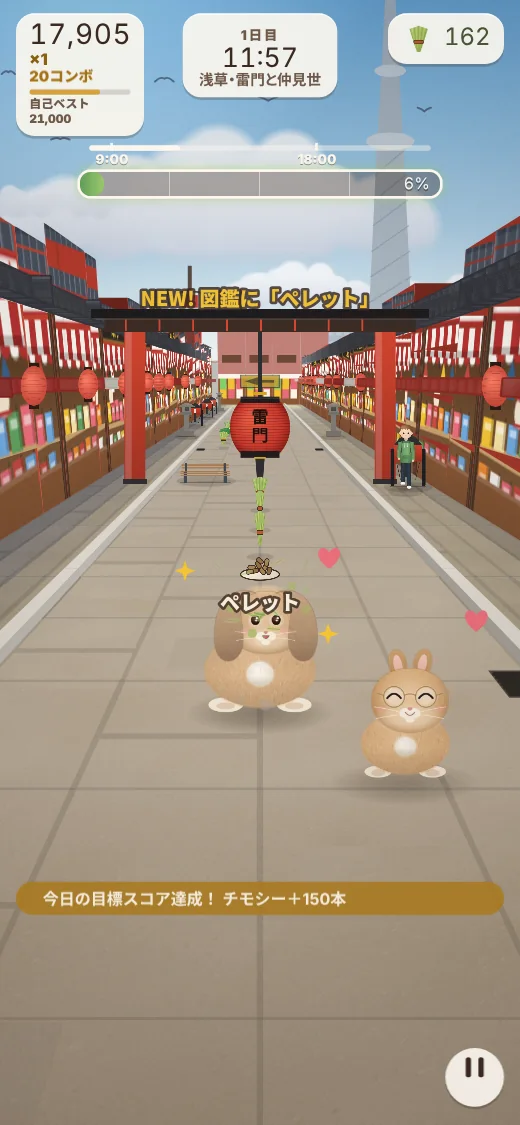
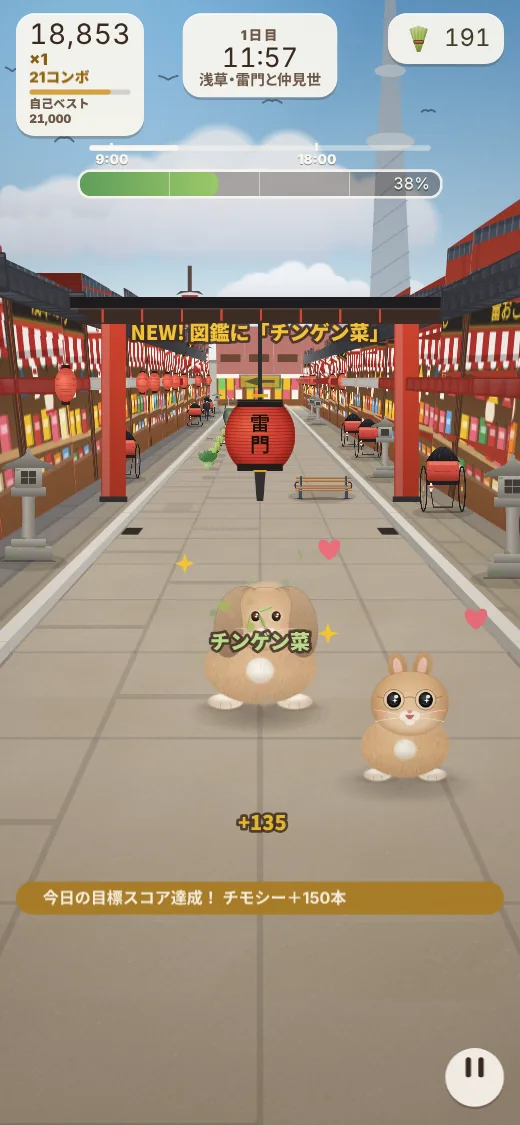
LP のレンとジルの手足をすべて新しく (#27)
* レンとジルの絵を、手足を作り込んだアニメの絵に入れ替え（キャラクター紹介・最初の画面・関係の図・3D の案内役・共有用の画像）／書き出しから変換までの道具 tools/char_from_rig.py

Claude-Session: https://claude.ai/code/session_01KYhWQVkUVFVXPun7Dy396r

* LP のレンとジルの手足をすべて新しく：動く 3D の案内役の絵を 2 倍の細かさで作り直し（512 では指やかげがつぶれた）／「ある一日」1〜7 をいまのアニメから切り出し直し（8・9 は頭のアップで手足が写らない）／ゲーム画面 6 枚を撮り直し／作る道具を tools に保存

Claude-Session: https://claude.ai/code/session_01KYhWQVkUVFVXPun7Dy396r

* 検査 57：案内役の 3D の絵の細かさ（1 人 1024 以上）と、guide3d.js の数字との一致を見る

Claude-Session: https://claude.ai/code/session_01KYhWQVkUVFVXPun7Dy396r

---------

diff --git a/guide3d.js b/guide3d.js
@@ -39,7 +39,7 @@
   window.__g3d = state;
 
   /* ───────── 絵のます目（tools/make_g3d.py と同じ数字） ───────── */
-  const AW = 2048, AH = 1024, CELL = 512, PAD = 16, INNER = CELL - PAD * 2;
+  const AW = 4096, AH = 2048, CELL = 1024, PAD = 32, INNER = CELL - PAD * 2; // 2026-11-16：512 では手足がつぶれたので 2 倍（絵の割合は前と同じ）
   const tile = (col, row) => [(col * CELL + PAD) / AW, (row * CELL + PAD) / AH, INNER / AW, INNER / AH];
   const FACE = { open: 0, blink: 1, happy: 2 };
   const FOOT = 0.058;      // 絵の下から足の裏までの割合

diff --git a/tools/make_g3d.py b/tools/make_g3d.py
@@ -1,6 +1,6 @@
 #!/usr/bin/env python3
 """案内役の 3D（guide3d.js）用の絵を作る。使い方：python3 tools/make_g3d.py
-img/char/{ren,jill}_{open,blink,happy}.webp → img/g3d/atlas.webp（2048x1024、512 のますが 4 列 × 2 段）
+/tmp/char_hi/{ren,jill}_{open,blink,happy}.png（tools/char_from_rig.py が作る大きい絵。無ければ img/char/*.webp）→ img/g3d/atlas.webp（4096x2048、1024 のますが 4 列 × 2 段）
   列：ふだん / まばたき / にっこり / 奥行き（白いほど手前）。段：レン / ジル
 - 絵に描きこまれた足もとの影は消す（3D では影を別に描くので、跳ねたとき影がついてこないように）
 - 奥行きは、体の形をふくらませて作る（輪郭で 0、まん中ほど高い）。絵を差し替えたら、これを実行し直す
@@ -12,7 +12,7 @@ from scipy.sparse import lil_matrix
 from scipy.sparse.linalg import spsolve
 import os
 ROOT = os.path.dirname(os.path.dirname(os.path.abspath(__file__)))
-CELL, PAD = 512, 16
+CELL, PAD = 1024, 32  # 2026-11-16：512 では手足の指やかげがつぶれた（オーナー「LP の動くレンとジルの足が質の低いまま」）→ 2 倍に
 INNER = CELL - PAD * 2
 
 def body_alpha(a):
@@ -42,14 +42,14 @@ def inflate(mask):
             if 0 <= yy < S and 0 <= xx < S and idx[yy, xx] >= 0: A[k, idx[yy, xx]] = -1
     h = np.zeros((S, S)); h[ys, xs] = spsolve(A.tocsr(), b)
     h = np.sqrt(h / h.max())
-    im = Image.fromarray((h * 255).astype(np.uint8)).resize((INNER, INNER), Image.BICUBIC).filter(ImageFilter.GaussianBlur(3))
+    im = Image.fromarray((h * 255).astype(np.uint8)).resize((INNER, INNER), Image.BICUBIC).filter(ImageFilter.GaussianBlur(6))
     return np.array(im).astype(np.float32) / 255.0
 
 atlas = np.zeros((CELL * 2, CELL * 4, 4), np.float32)
 for row, who in enumerate(("ren", "jill")):
     base_alpha = None
     for col, face in enumerate(("open", "blink", "happy")):
-        im = Image.open(f"{ROOT}/img/char/{who}_{face}.webp").convert("RGBA").resize((INNER, INNER), Image.LANCZOS)
+        im = Image.open(f"/tmp/char_hi/{who}_{face}.png" if os.path.exists(f"/tmp/char_hi/{who}_{face}.png") else f"{ROOT}/img/char/{who}_{face}.webp").convert("RGBA").resize((INNER, INNER), Image.LANCZOS)
         a = np.array(im).astype(np.float32)
         if base_alpha is None: base_alpha = body_alpha(a[..., 3])
         rgb = a[..., :3] / 255.0

diff --git a/tools/char_from_rig.py b/tools/char_from_rig.py
@@ -1,0 +1,24 @@
+#!/usr/bin/env python3
+"""アニメの道具（renjill-auto の rig/portraits.js）で書き出した PNG から、サイトのキャラクターの絵（img/char/*.webp、600×600）を作る。
+使い方（3D の案内役の絵 img/g3d/atlas.webp もこの大きい絵から作るので、続けて make_g3d.py を実行する）：
+  cd renjill-auto && node rig/portraits.js /tmp/port
+  cd renjill-site && python3 tools/char_from_rig.py /tmp/port && python3 tools/make_g3d.py
+絵の置き方：見えている部分（影こみ）を切り出し、正方形のまん中・下ぞろえで 600×600 に（2026-11-15 に入れた絵と同じ置き方）。
+顔だけの小さな絵（*_head.webp）は足と関係がないので、ここでは作らない。
+"""
+import sys, os
+from PIL import Image
+src = sys.argv[1]
+ROOT = os.path.dirname(os.path.dirname(os.path.abspath(__file__)))
+NAME = {'ren': 'ren', 'jil': 'jill', 'pom': 'pom'}
+for fn in sorted(os.listdir(src)):
+    if not fn.endswith('.png'): continue
+    who, mood = fn[:-4].split('_', 1)
+    im = Image.open(os.path.join(src, fn)).convert('RGBA')
+    a = im.getchannel('A').point(lambda v: 255 if v > 6 else 0)
+    box = a.getbbox(); im = im.crop(box)
+    s = max(im.size); sq = Image.new('RGBA', (s, s), (0, 0, 0, 0)); sq.alpha_composite(im, ((s - im.size[0]) // 2, s - im.size[1]))
+    out = os.path.join(ROOT, 'img', 'char', f'{NAME[who]}_{mood}.webp')
+    sq.resize((600, 600), Image.LANCZOS).save(out, 'WEBP', quality=90, method=6)
+    os.makedirs('/tmp/char_hi', exist_ok=True); sq.save(f'/tmp/char_hi/{NAME[who]}_{mood}.png')  # 3D の案内役用の大きい絵（tools/make_g3d.py が使う。サイトには置かない）
+    print(out)
